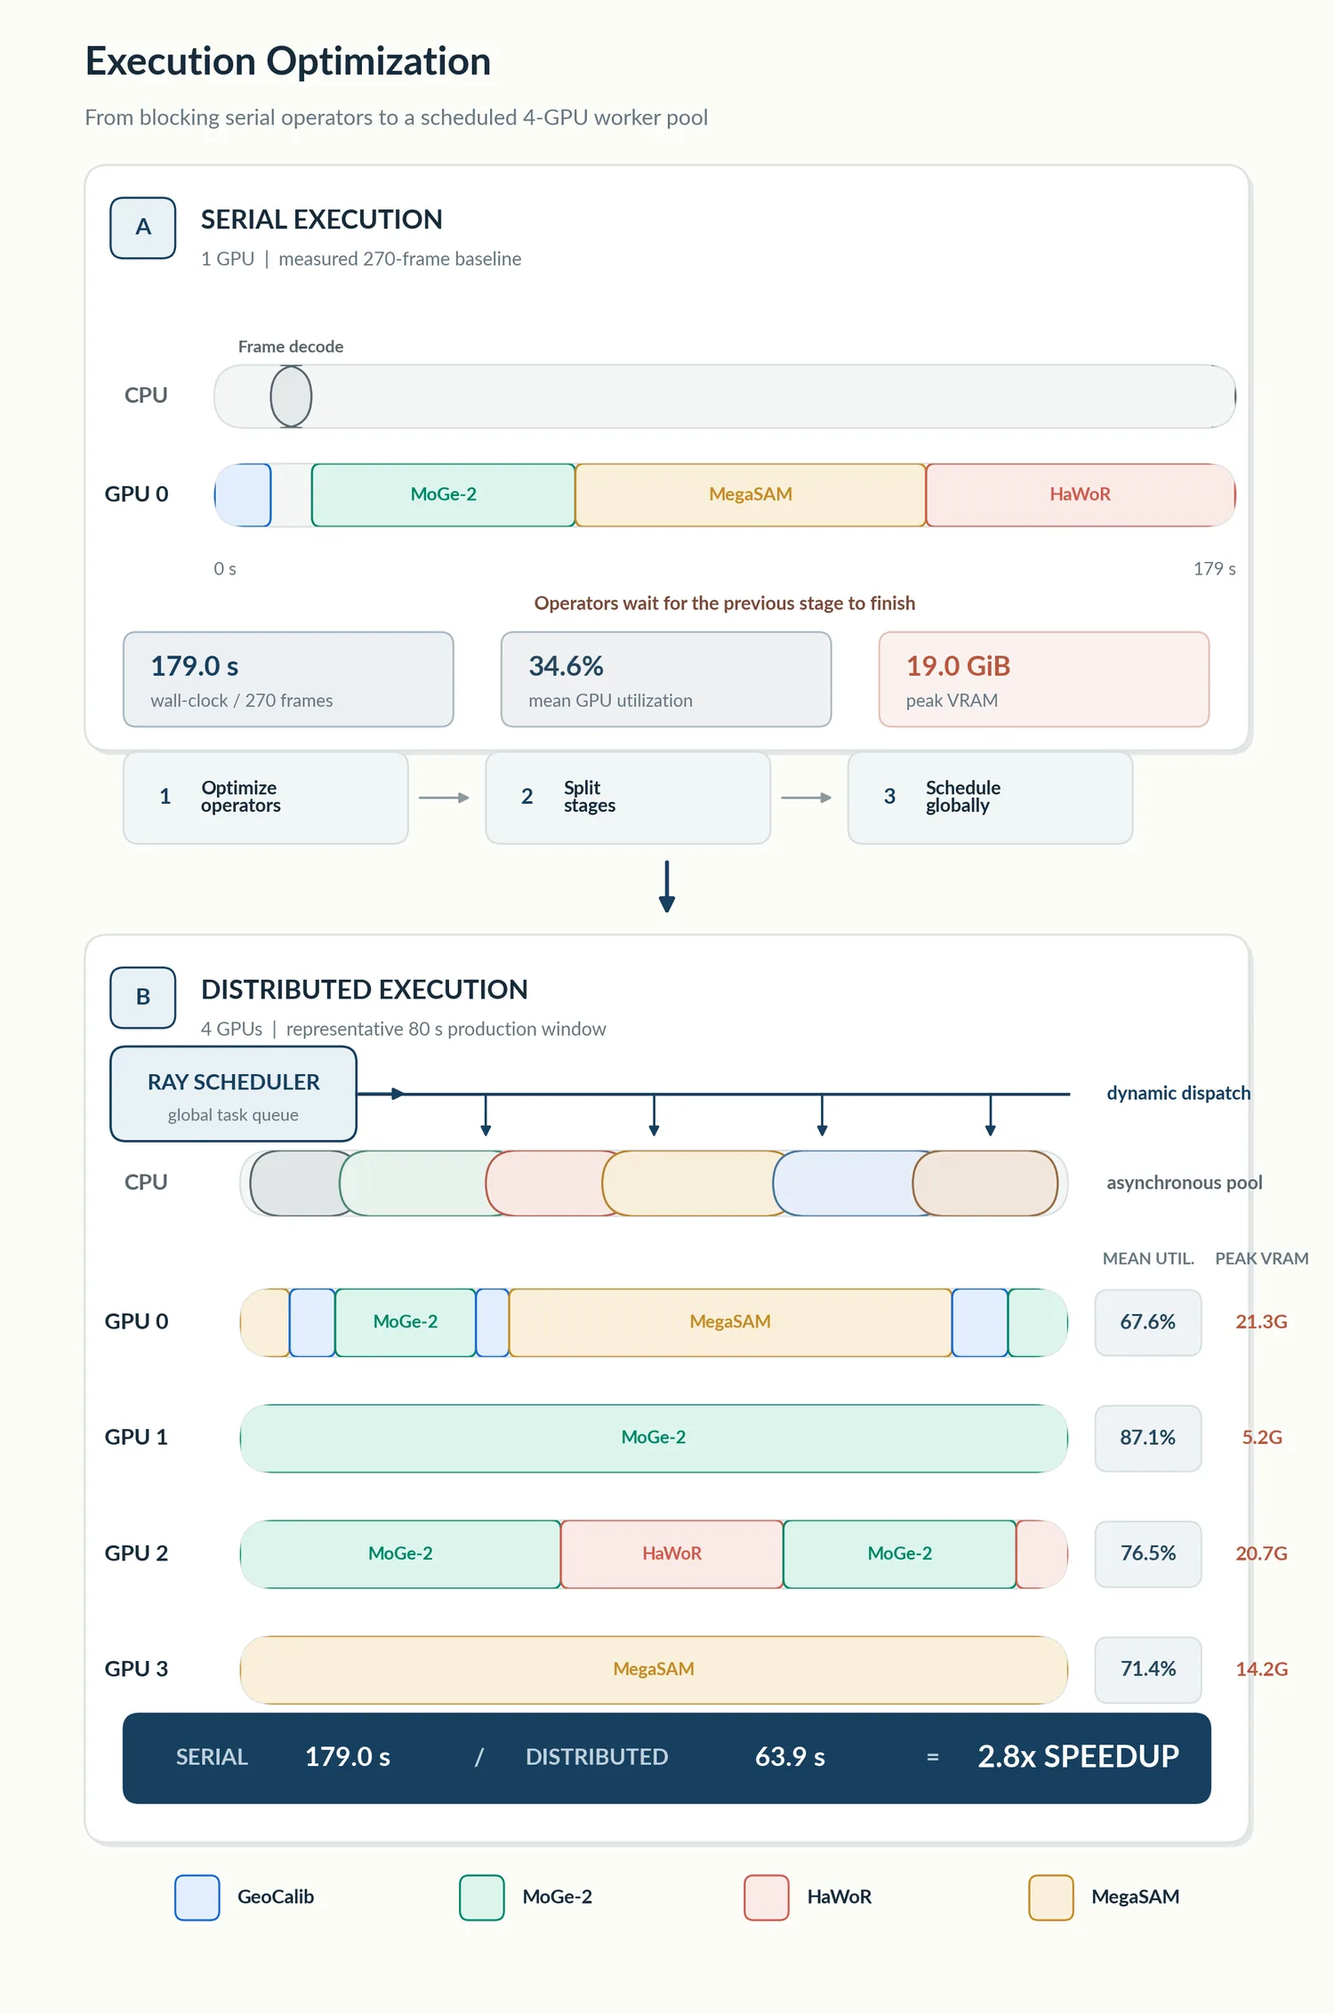
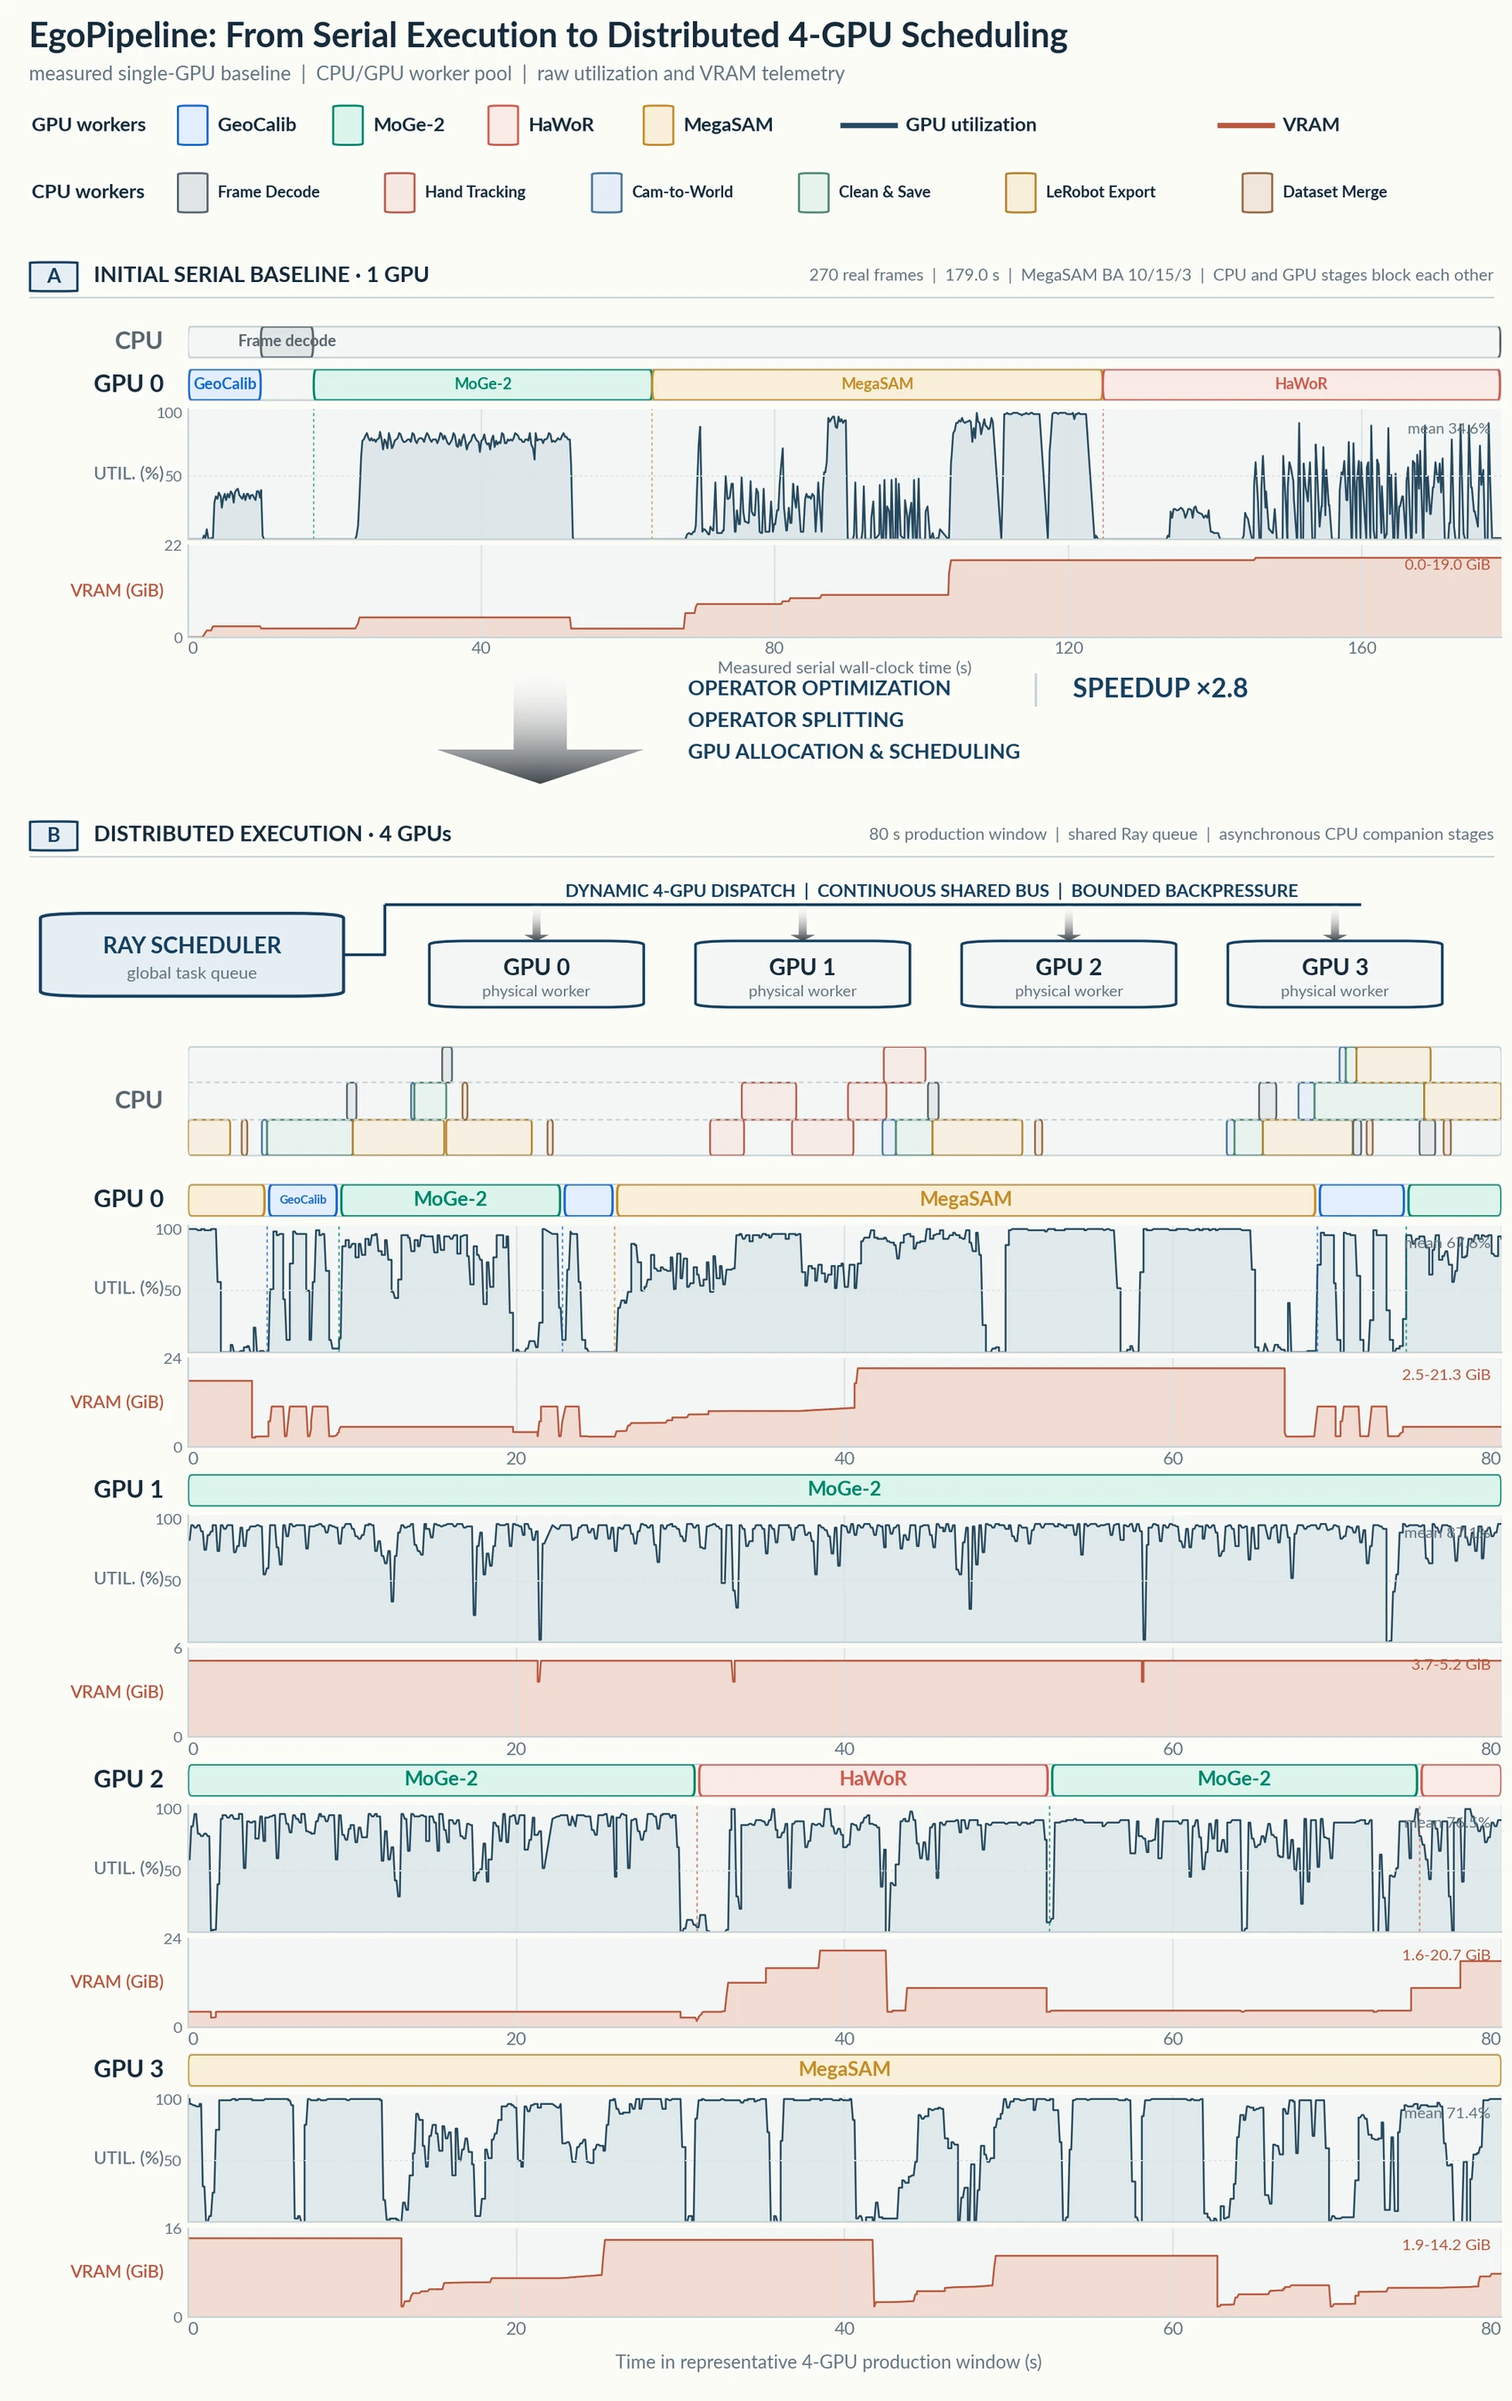
docs: open both READMEs with the film and the video wall
The promo film now heads the README, above the 108-tile wall that becomes the
hero; the three-panel prediction render that used to sit above the title moves
down to illustrate "Why one model instead of the chain", replacing the GPU
execution telemetry figure there. The 2.8x pipeline-internal speedup that lived
in that figure's caption is folded into the paragraph so the claim, and the note
that it does not multiply with the 5.0x, survive the figure being dropped.

Provenance in assets/readme/SOURCES.md updated to match, including why the
72 MB MP4 is not committed: GitHub only renders an inline player for
user-attachments links.

diff --git a/README.md b/README.md
@@ -1,6 +1,21 @@
 <div align="center">
 
-<img src="assets/readme/teaser.webp" width="100%" alt="Ego view with reprojected MANO, the same motion as a world-space camera and two-hand trajectory, and that trajectory retargeted to the Wuji hand in MuJoCo">
+<!--
+  FULL FILM (1 min 41 s) — the promo film opens the README, above the hero
+  wall. Source: `out/MINT_full_en.mp4` in the promo project, 1920 × 1080,
+  72 MB, kept out of this repository on purpose. GitHub renders an inline
+  player only for github.com/user-attachments URLs, and those can only be
+  minted through the browser: open any issue or PR comment box in this
+  repository, drag the MP4 into it, copy the generated
+  https://github.com/user-attachments/assets/...
+  link, and paste it on its own line right below this comment. Do not commit
+  the MP4 — a <video> tag pointing at a file in the repository is stripped by
+  GitHub's markdown sanitizer and renders as nothing.
+-->
+
+<img src="assets/readme/scale.webp" width="100%" alt="108 MINT renders playing at once, one tile per clip">
+
+<sub>108 MINT renders from the three released corpora, playing at once. The full release is 1,021.514 h · 560,649 episodes · 110,323,558 frames of structured supervision.</sub>
 
 <h1>MINT: Minting a Unified Model for World-Space Camera and Hand Motion<br>from Scalable Egocentric Pipeline Supervision</h1>
 
@@ -19,16 +34,6 @@ Zijie Zhu<sup>1,3,4</sup> &nbsp;·&nbsp; Weiren Cai<sup>3</sup> &nbsp;·&nbsp; Y
 [中文说明](README_ZH.md)
 
 </div>
-
-<!--
-  FULL FILM (1 min 41 s). GitHub renders an inline player only for
-  github.com/user-attachments URLs, and those can only be minted through the
-  browser: open any issue or PR comment box in this repository, drag the MP4
-  into it, copy the generated https://github.com/user-attachments/assets/...
-  link, and paste it on its own line right here. Do not commit the MP4 — a
-  <video> tag pointing at a file in the repository is stripped by GitHub's
-  markdown sanitizer and renders as nothing.
--->
 
 <img src="assets/readme/world_space.webp" width="100%" alt="Eight panels: device ground truth beside MINT prediction in the ego view, in world space, and retargeted to the Wuji hand in MuJoCo">
 
@@ -211,15 +216,11 @@ Its output is **pseudo-label, not ground truth** — that distinction is load-be
 
 ### Why one model instead of the chain
 
-<img src="assets/readme/figure_execution.webp" width="100%" alt="Execution accounting for the multi-stage pipeline versus one shared forward pass">
+<img src="assets/readme/teaser.webp" width="100%" alt="Three panels from one forward pass: ego view with reprojected MANO, the world-space camera and two-hand trajectory, and that trajectory retargeted to the Wuji hand in MuJoCo">
 
-<div align="center"><sub>This figure is <b>internal to the pipeline</b>: rewriting its serial 1-GPU execution as a scheduled 4-GPU worker pool takes 179.0 s down to 63.9 s per 270 frames, a <b>2.8×</b> speedup. That optimised version is the baseline the <b>5.0×</b> above is measured against — the two numbers are different comparisons and do not multiply.</sub></div>
+<div align="center"><sub>What a single forward pass returns, in the three spaces the staged chain only reaches by post-processing its own stage outputs: ego-view MANO, world-space camera and two-hand trajectory, and the Wuji-hand retarget. All three panels are prediction.</sub></div>
 
-A staged chain has structural costs that better engineering does not remove: each stage re-encodes the same video, camera and hands meet only in post-processing, every stage is capped by the one before it, and one operator regressing regresses the whole record. Under whole-process accounting — raw input video in, stored unified structured state out, identical inputs and hardware — the unified model reaches **5.0× the effective data-production throughput of EgoPipeline**. That figure is end-to-end data production, *not* model forward time, and the baseline is EgoPipeline already distributed-optimised with Ray multi-GPU operators, persistent workers and asynchronous CPU stages.
-
-<img src="assets/readme/scale.webp" width="100%" alt="108 MINT renders playing at once, one tile per clip">
-
-<div align="center"><sub>108 MINT renders from the three released corpora, playing at once. The full release is 1,021.514 h · 560,649 episodes · 110,323,558 frames of structured supervision.</sub></div>
+A staged chain has structural costs that better engineering does not remove: each stage re-encodes the same video, camera and hands meet only in post-processing, every stage is capped by the one before it, and one operator regressing regresses the whole record. Under whole-process accounting — raw input video in, stored unified structured state out, identical inputs and hardware — the unified model reaches **5.0× the effective data-production throughput of EgoPipeline**. That figure is end-to-end data production, *not* model forward time, and the baseline is EgoPipeline already distributed-optimised with Ray multi-GPU operators, persistent workers and asynchronous CPU stages: rewriting its serial 1-GPU execution as a scheduled 4-GPU worker pool already took 179.0 s down to 63.9 s per 270 frames, a **2.8×** speedup internal to the pipeline. The two numbers are different comparisons and do not multiply.
 
 ## 📊 What MINT is measured on
 

diff --git a/assets/readme/SOURCES.md b/assets/readme/SOURCES.md
@@ -7,11 +7,18 @@ so every moving asset here is an animated WebP.
 
 | File | Source | What it shows |
 | --- | --- | --- |
-| `teaser.webp` | `wuji_both_2d_world_motion_3d_mujoco_3d_wuji_retarget_3d (13).mp4`, frame at 7.4 s — the 8-panel HOT3D render of inference-sample episode 5 | The four prediction panels: ego view, world space, MuJoCo replay, Wuji retarget |
-| `world_space.webp` | same render, 1.2–11.6 s | All eight panels: device ground truth beside MINT prediction in every space |
+| `scale.webp` | `mos_L2.mp4`, the 108-tile wall built from `assets/mint_new` renders | Scale of the released supervision — the README hero, directly under the film |
+| `world_space.webp` | `wuji_both_2d_world_motion_3d_mujoco_3d_wuji_retarget_3d (13).mp4`, 1.2–11.6 s — the 8-panel HOT3D render of inference-sample episode 5 | All eight panels: device ground truth beside MINT prediction in every space |
 | `pipeline_vs_mint.webp` | `ego4d_c001_f869_ep00175026_o001` (`original_rgb` / `egopipeline_prediction` / `model_prediction`), 2.4–8.0 s, burnt-in title bars cropped | Same frames through the multi-stage pipeline and through MINT |
-| `scale.webp` | `mos_L2.mp4`, the 108-tile wall built from `assets/mint_new` renders | Scale of the released supervision |
-| `figure_*.webp` | `overleaf/materials/pictures/*` | The paper's own figures, downscaled |
+| `figure_execution.webp` | `materials/sub_pic/ego_pipeline/execution_optimization/v1/images/07_execution_optimization_v2.png`, downscaled to 1700 px wide | Measured EgoPipeline execution telemetry: serial 1-GPU baseline, then the scheduled 4-GPU worker pool. Kept for reuse; **not referenced by either README** — the 2.8× it shows is now stated in the text of *Why one model instead of the chain* |
+| `figure_architecture.webp`, `figure_system.webp` | `overleaf/materials/pictures/*` | The paper's own figures, downscaled |
+| `teaser.webp` | same render as `world_space.webp`, frame at 7.4 s | The three prediction panels — ego view, world space, Wuji retarget. Illustrates *Why one model instead of the chain* |
+
+The film that opens both READMEs is `out/MINT_full_en.mp4` in the promo project
+(1 min 41 s, 1920 × 1080, 72 MB). It is deliberately not committed here: GitHub
+only renders an inline player for `github.com/user-attachments` links, so the
+MP4 has to be uploaded through a browser comment box and the resulting link
+pasted into the placeholder at the top of each README.
 
 ## How the comparison clip was chosen
 
